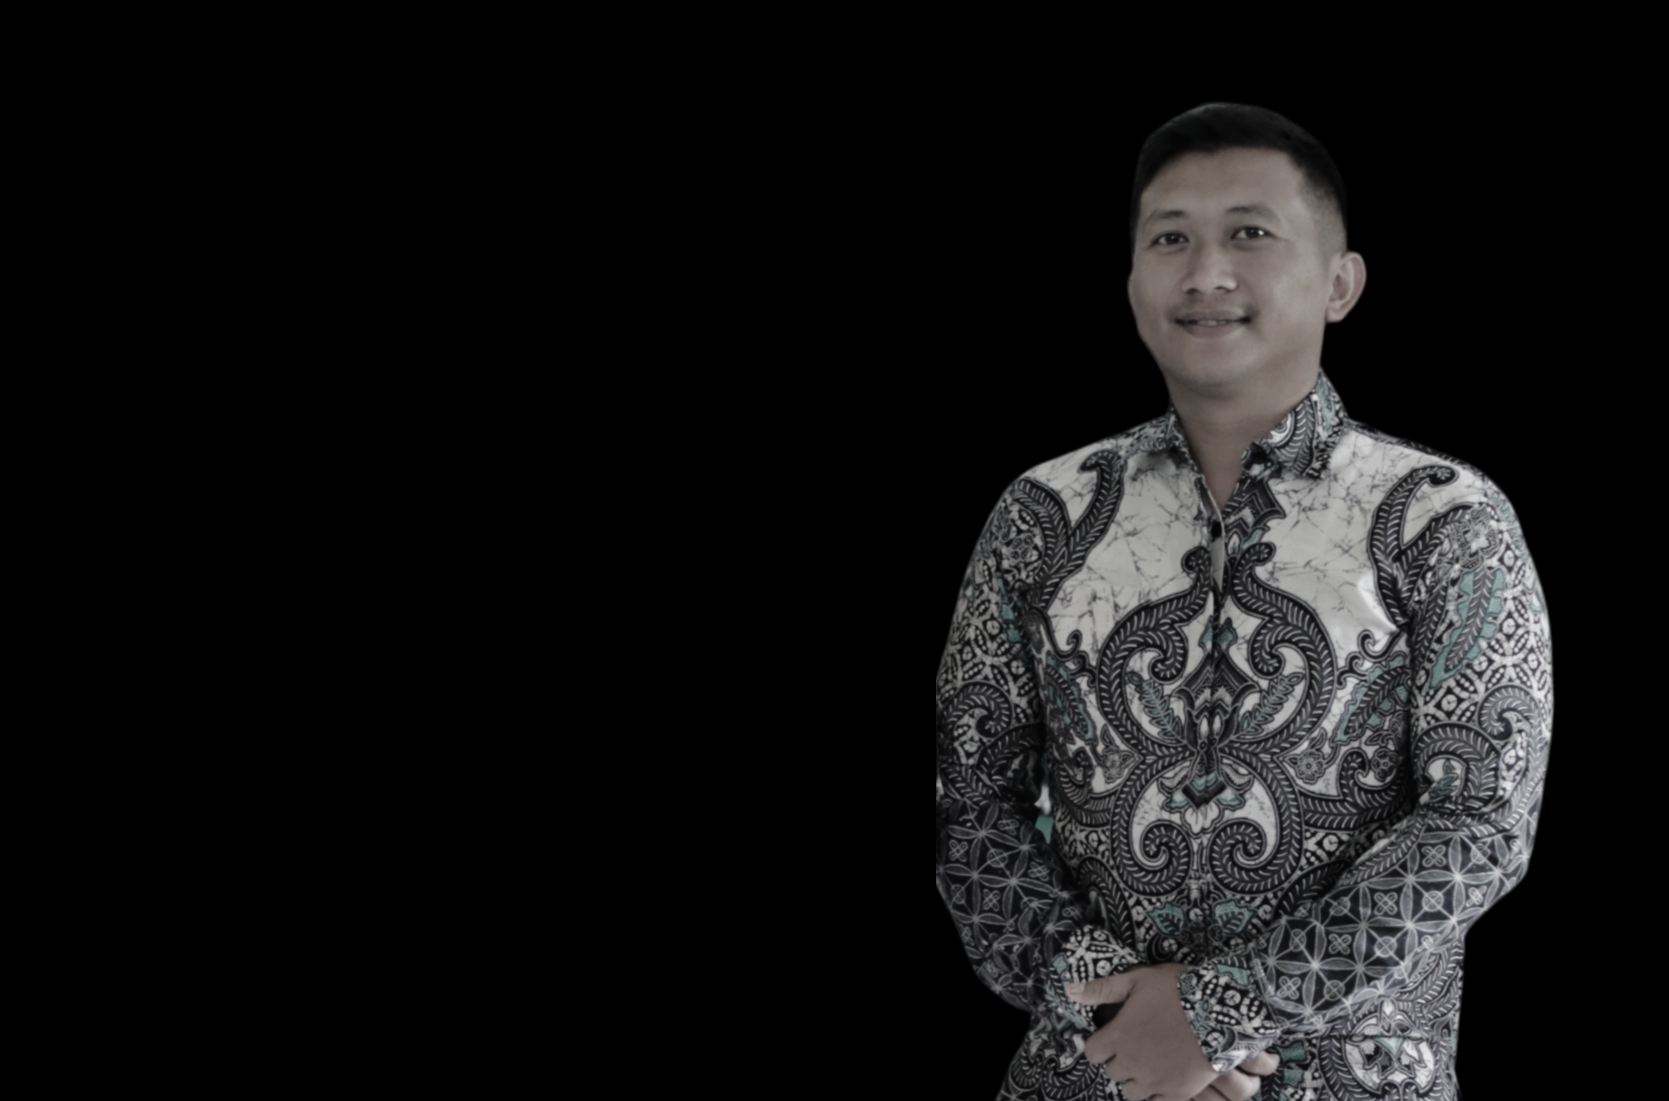
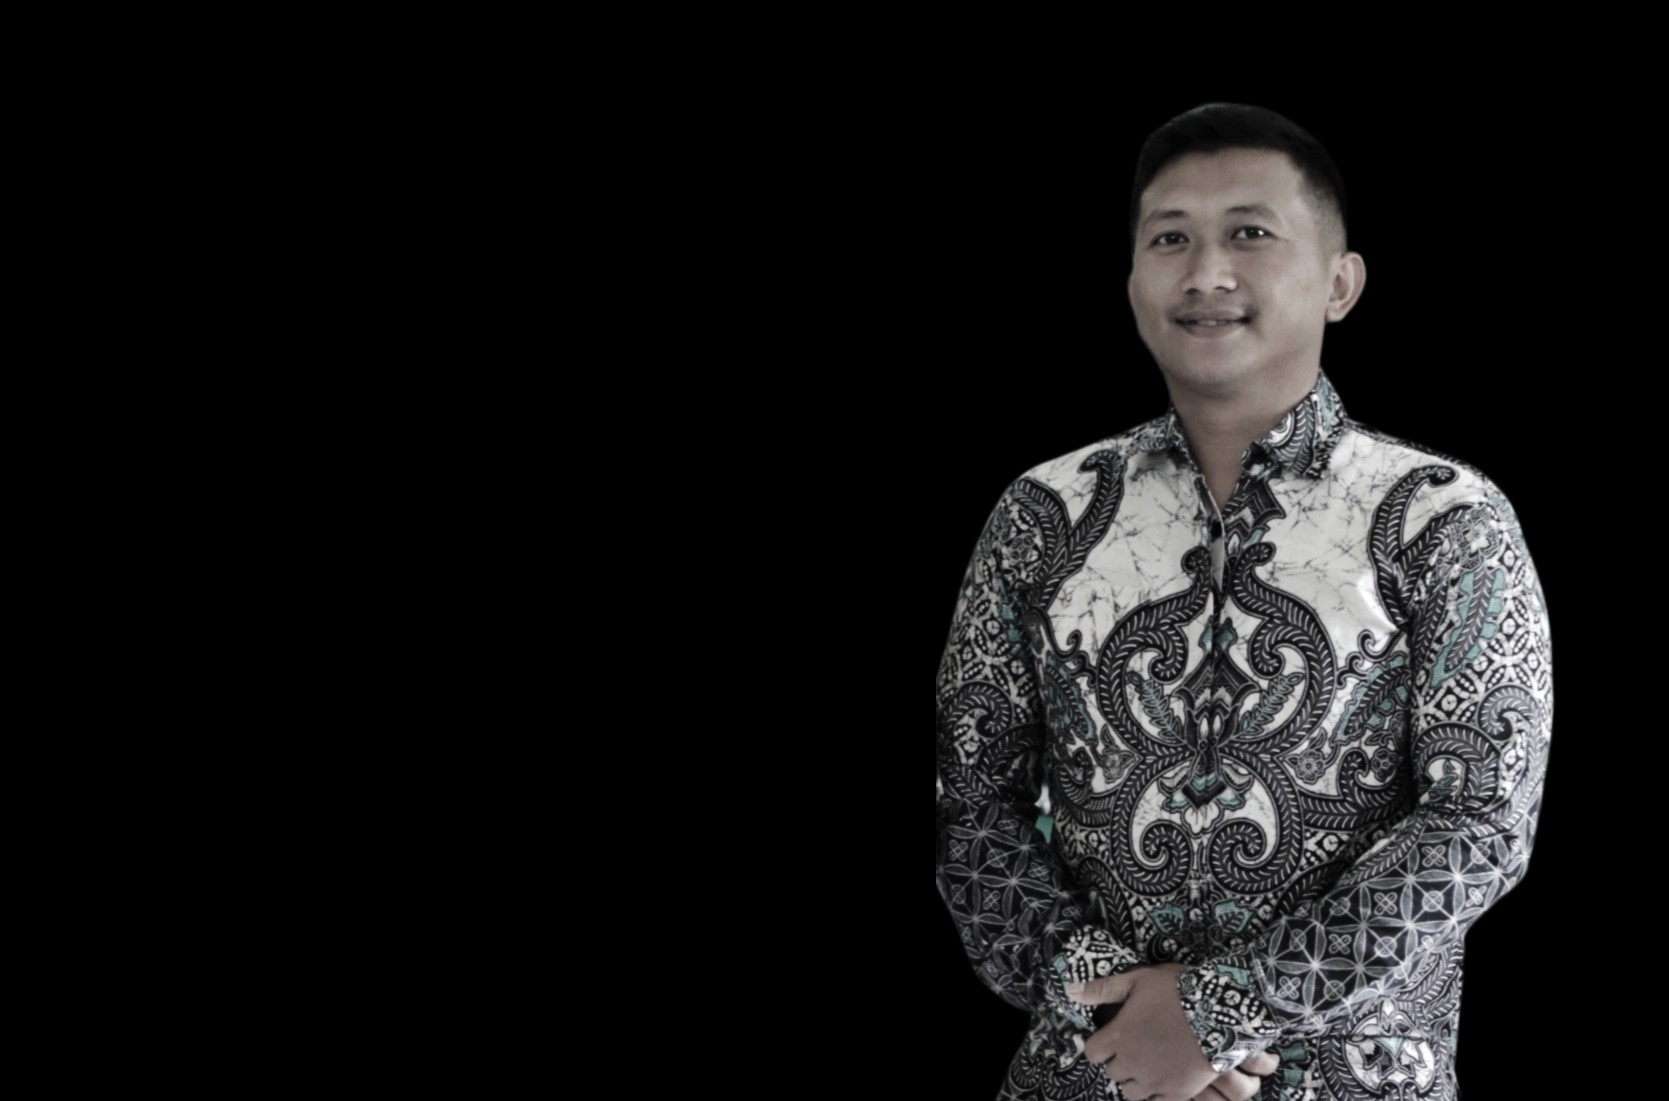
update index html

diff --git a/index.html b/index.html
@@ -42,7 +42,7 @@
   <header id="header">
     <div class="container">
 
-      <h1><a href="index.html" style="color: rgb(7, 189, 7);">Erickson Lumban Gaol</a></h1>
+      <h1><a href="index.html" style="color: #18d26e;">Erickson Lumban Gaol</a></h1>
       <!-- Uncomment below if you prefer to use an image logo -->
       <!-- <a href="index.html" class="mr-auto"><img src="assets/img/logo.png" alt="" class="img-fluid"></a> -->
       <!-- <h2>I'm a passionate <span>graphic designer</span> from New York</h2> -->
@@ -83,41 +83,20 @@
 
       <div class="row">
         <div class="col-lg-8 pt-4 pt-lg-0 content" data-aos="fade-left">
+         <br>
           <h3>Software Quality Assurance, UI/UX &amp; IT Support</h3>
-          <!-- <p class="fst-italic">
-            Lorem ipsum dolor sit amet, consectetur adipiscing elit, sed do eiusmod tempor incididunt ut labore et dolore
-            magna aliqua.
-          </p> -->
-          <div class="row">
-            <div class="col-lg-6">
-              <ul>
-                <li><i class="bi bi-chevron-right"></i> <strong>Birthday:</strong> <span>9 July 1995</span></li>
-                <li><i class="bi bi-chevron-right"></i> <strong>Age:</strong> <span>28</span></li>
-                <li><i class="bi bi-chevron-right"></i> <strong>Degree:</strong> <span>Diploma 3</span></li>
-             
-              </ul>
-            </div>
-            <div class="col-lg-6">
-              <ul>
-                <li><i class="bi bi-chevron-right"></i> <strong>Phone:</strong> <span>+62 813 6039 0800</span></li>
-                <li><i class="bi bi-chevron-right"></i> <strong>Email:</strong> <span>ericksonlumbangaol@gmail.com</span></li>
-                <li><i class="bi bi-chevron-right"></i> <strong>City:</strong> <span>South Jakarta, Indonesia</span></li>
-                <!-- <li><i class="bi bi-chevron-right"></i> <strong>PhEmailone:</strong> <span>email@example.com</span></li>
-                <li><i class="bi bi-chevron-right"></i> <strong>Freelance:</strong> <span>Available</span></li> -->
-              </ul>
-            </div>
-          </div>
-          <p>
-            I am from Indonesia, precisely in South Jakarta and looking for a new job in the field of 
-                  technology, especially in the position of Software Quality Assurance, UI/UX and IT Support. 
-                  I am proactive, enterprising, highly motivated to learn something new, passionate about technology, 
-                  logical and systematic thinking, good at copywriting & administration, interested in analysis, love 
-                  challenges and adaptable to new environments and now I look forward to collaborating with you!
+          <p class="fst-italic" style="text-align: justify;">
+            &emsp; I am from Indonesia, precisely in South Jakarta and looking for a new job in the field of 
+            technology, especially in the position of Software Quality Assurance, UI/UX and IT Support. 
+            I am proactive, enterprising, highly motivated to learn something new, passionate about technology, 
+            logical and systematic thinking, good at copywriting & administration, interested in analysis, love 
+            challenges and adaptable to new environments and now I look forward to collaborating with you!
           </p>
+          
         </div>
 
-        <div class="col-lg-4" data-aos="fade-right">
-          <img src="assets/img/profil1.png" class="img-fluid; responsive" alt="">
+        <div class="col-lg-3" data-aos="fade-right">
+          <img src="assets/img/me_about.png" class="img-fluid; responsive" alt="">
         </div>
 
 
@@ -295,7 +274,7 @@
         </div> 
 
       </div>
-
+<br>
 
       <!-- === Work Experience === -->
       <div class="row">
@@ -397,6 +376,9 @@
           </ul>
         </div>
       </div>
+
+      <br>
+        <br>
 
       <div class="row portfolio-container">
 

diff --git a/assets/css/style.css b/assets/css/style.css
@@ -20,9 +20,10 @@ body {
 body::before {
   content: "";
   position: fixed;
-  background: #040404 url("../img/me.png") top right no-repeat;
-  image-resolution: 720px 480px;
+  background: #040404 url("../img/bg_me.jpg") top right no-repeat;
+  image-resolution: auto auto;
   /* background-size: cover; */
+  background-attachment: fixed;
   left: 0;
   right: 0;
   top: 0;
